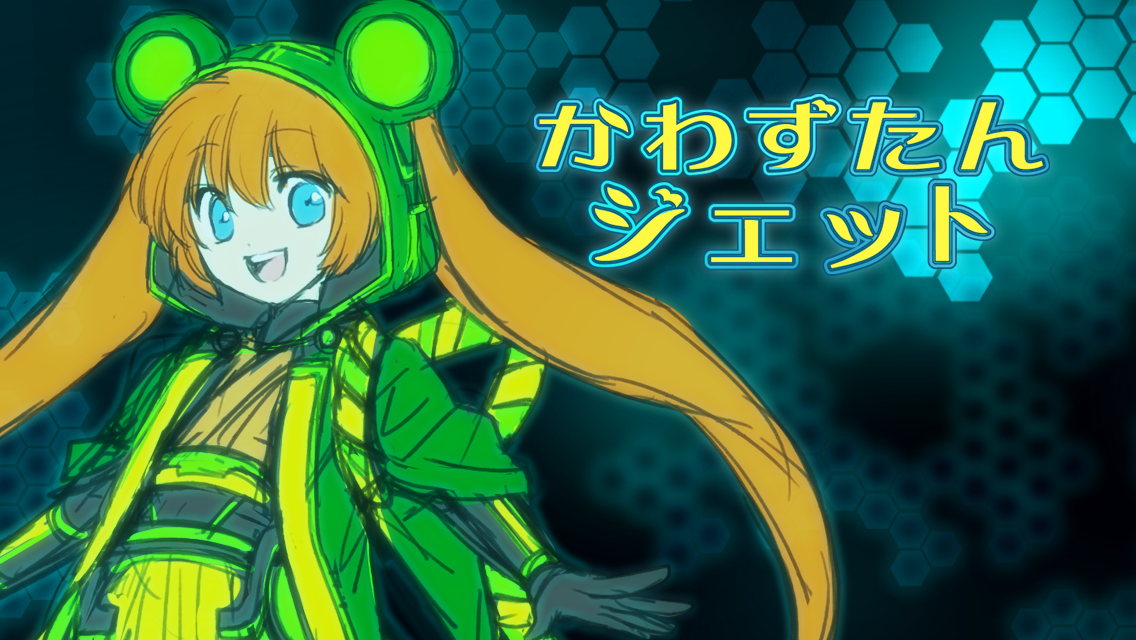
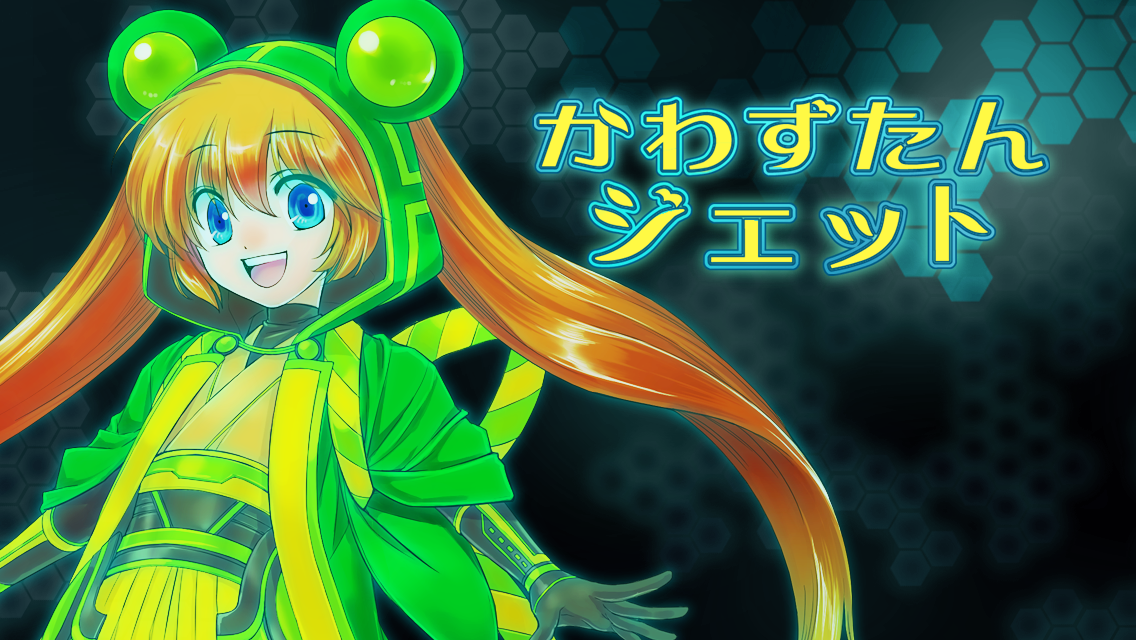
タイトル画面にボタンを設置した closes #2333 closes #2316

diff --git a/Classes/TitleScene.cpp b/Classes/TitleScene.cpp
@@ -37,23 +37,33 @@ bool TitleScene::init()
         return false;
     }
     
-    // 画面をタッチしたときにメイン画面へ遷移
-    auto listener = EventListenerTouchOneByOne::create();
-    listener->onTouchBegan = [](Touch* touch, Event* event) {
-        
-        auto main = MainScene::createSceneWithStage(0);
-        auto transition = TransitionCrossFade::create(0.5, main);
-        
-        Director::getInstance()->replaceScene(transition);
-        
-        return true;
-    };
-    this->getEventDispatcher()->addEventListenerWithSceneGraphPriority(listener, this);
-    
     auto winSize = Director::getInstance()->getWinSize();
     auto background = Sprite::create("title.png");
     background->setPosition(Vec2(winSize.width / 2.0, winSize.height / 2.0));
     this->addChild(background);
+    
+    auto start = Sprite::create("start.png");
+    this->addChild(start);
+    start->setPosition(Vec2(winSize.width / 2, winSize.height / 4));
+    
+    // 画面をタッチしたときにメイン画面へ遷移
+    auto listener = EventListenerTouchOneByOne::create();
+    listener->onTouchBegan = [this, start](Touch* touch, Event* event) {
+        start->setTexture(Director::getInstance()->getTextureCache()->addImage("start_pressed.png"));
+        
+        this->getEventDispatcher()->removeAllEventListeners();
+        
+        this->runAction(Sequence::create(DelayTime::create(1.0),
+                                         CallFunc::create([] {
+            auto main = MainScene::createSceneWithStage(0);
+            auto transition = TransitionCrossFade::create(0.5, main);
+            
+            Director::getInstance()->replaceScene(transition);
+        }), NULL));
+        
+        return true;
+    };
+    this->getEventDispatcher()->addEventListenerWithSceneGraphPriority(listener, this);
     
     return true;
 }
